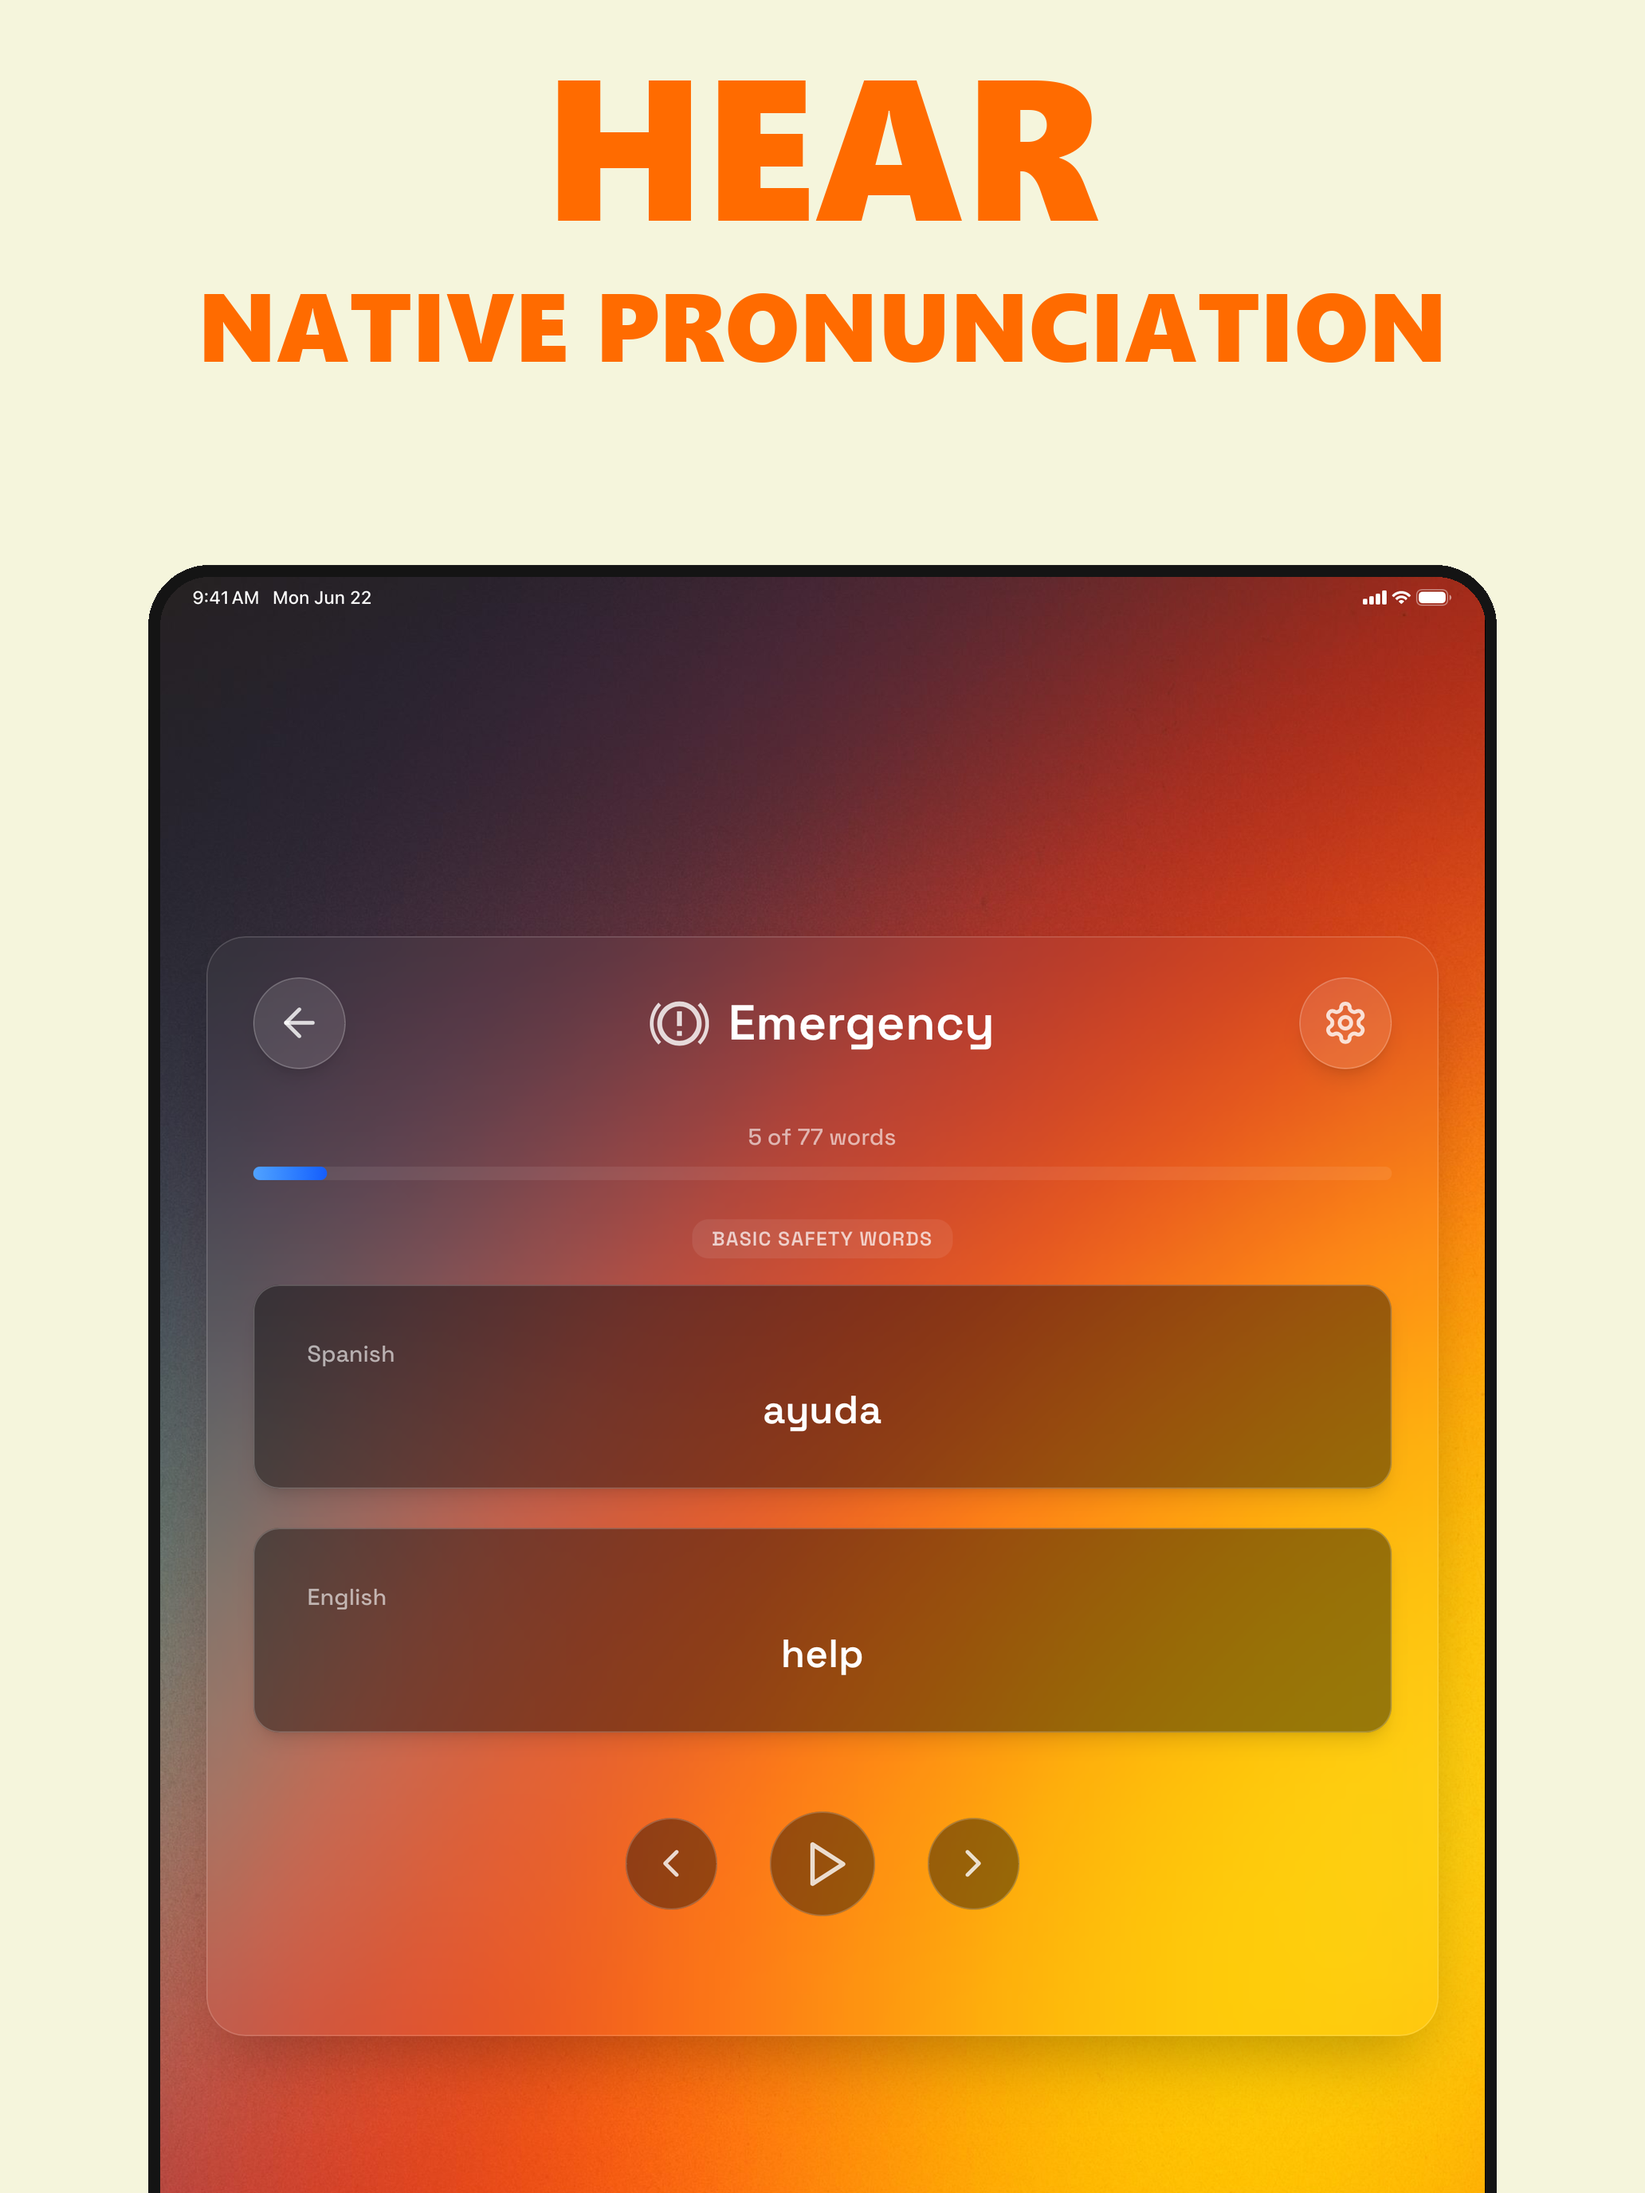
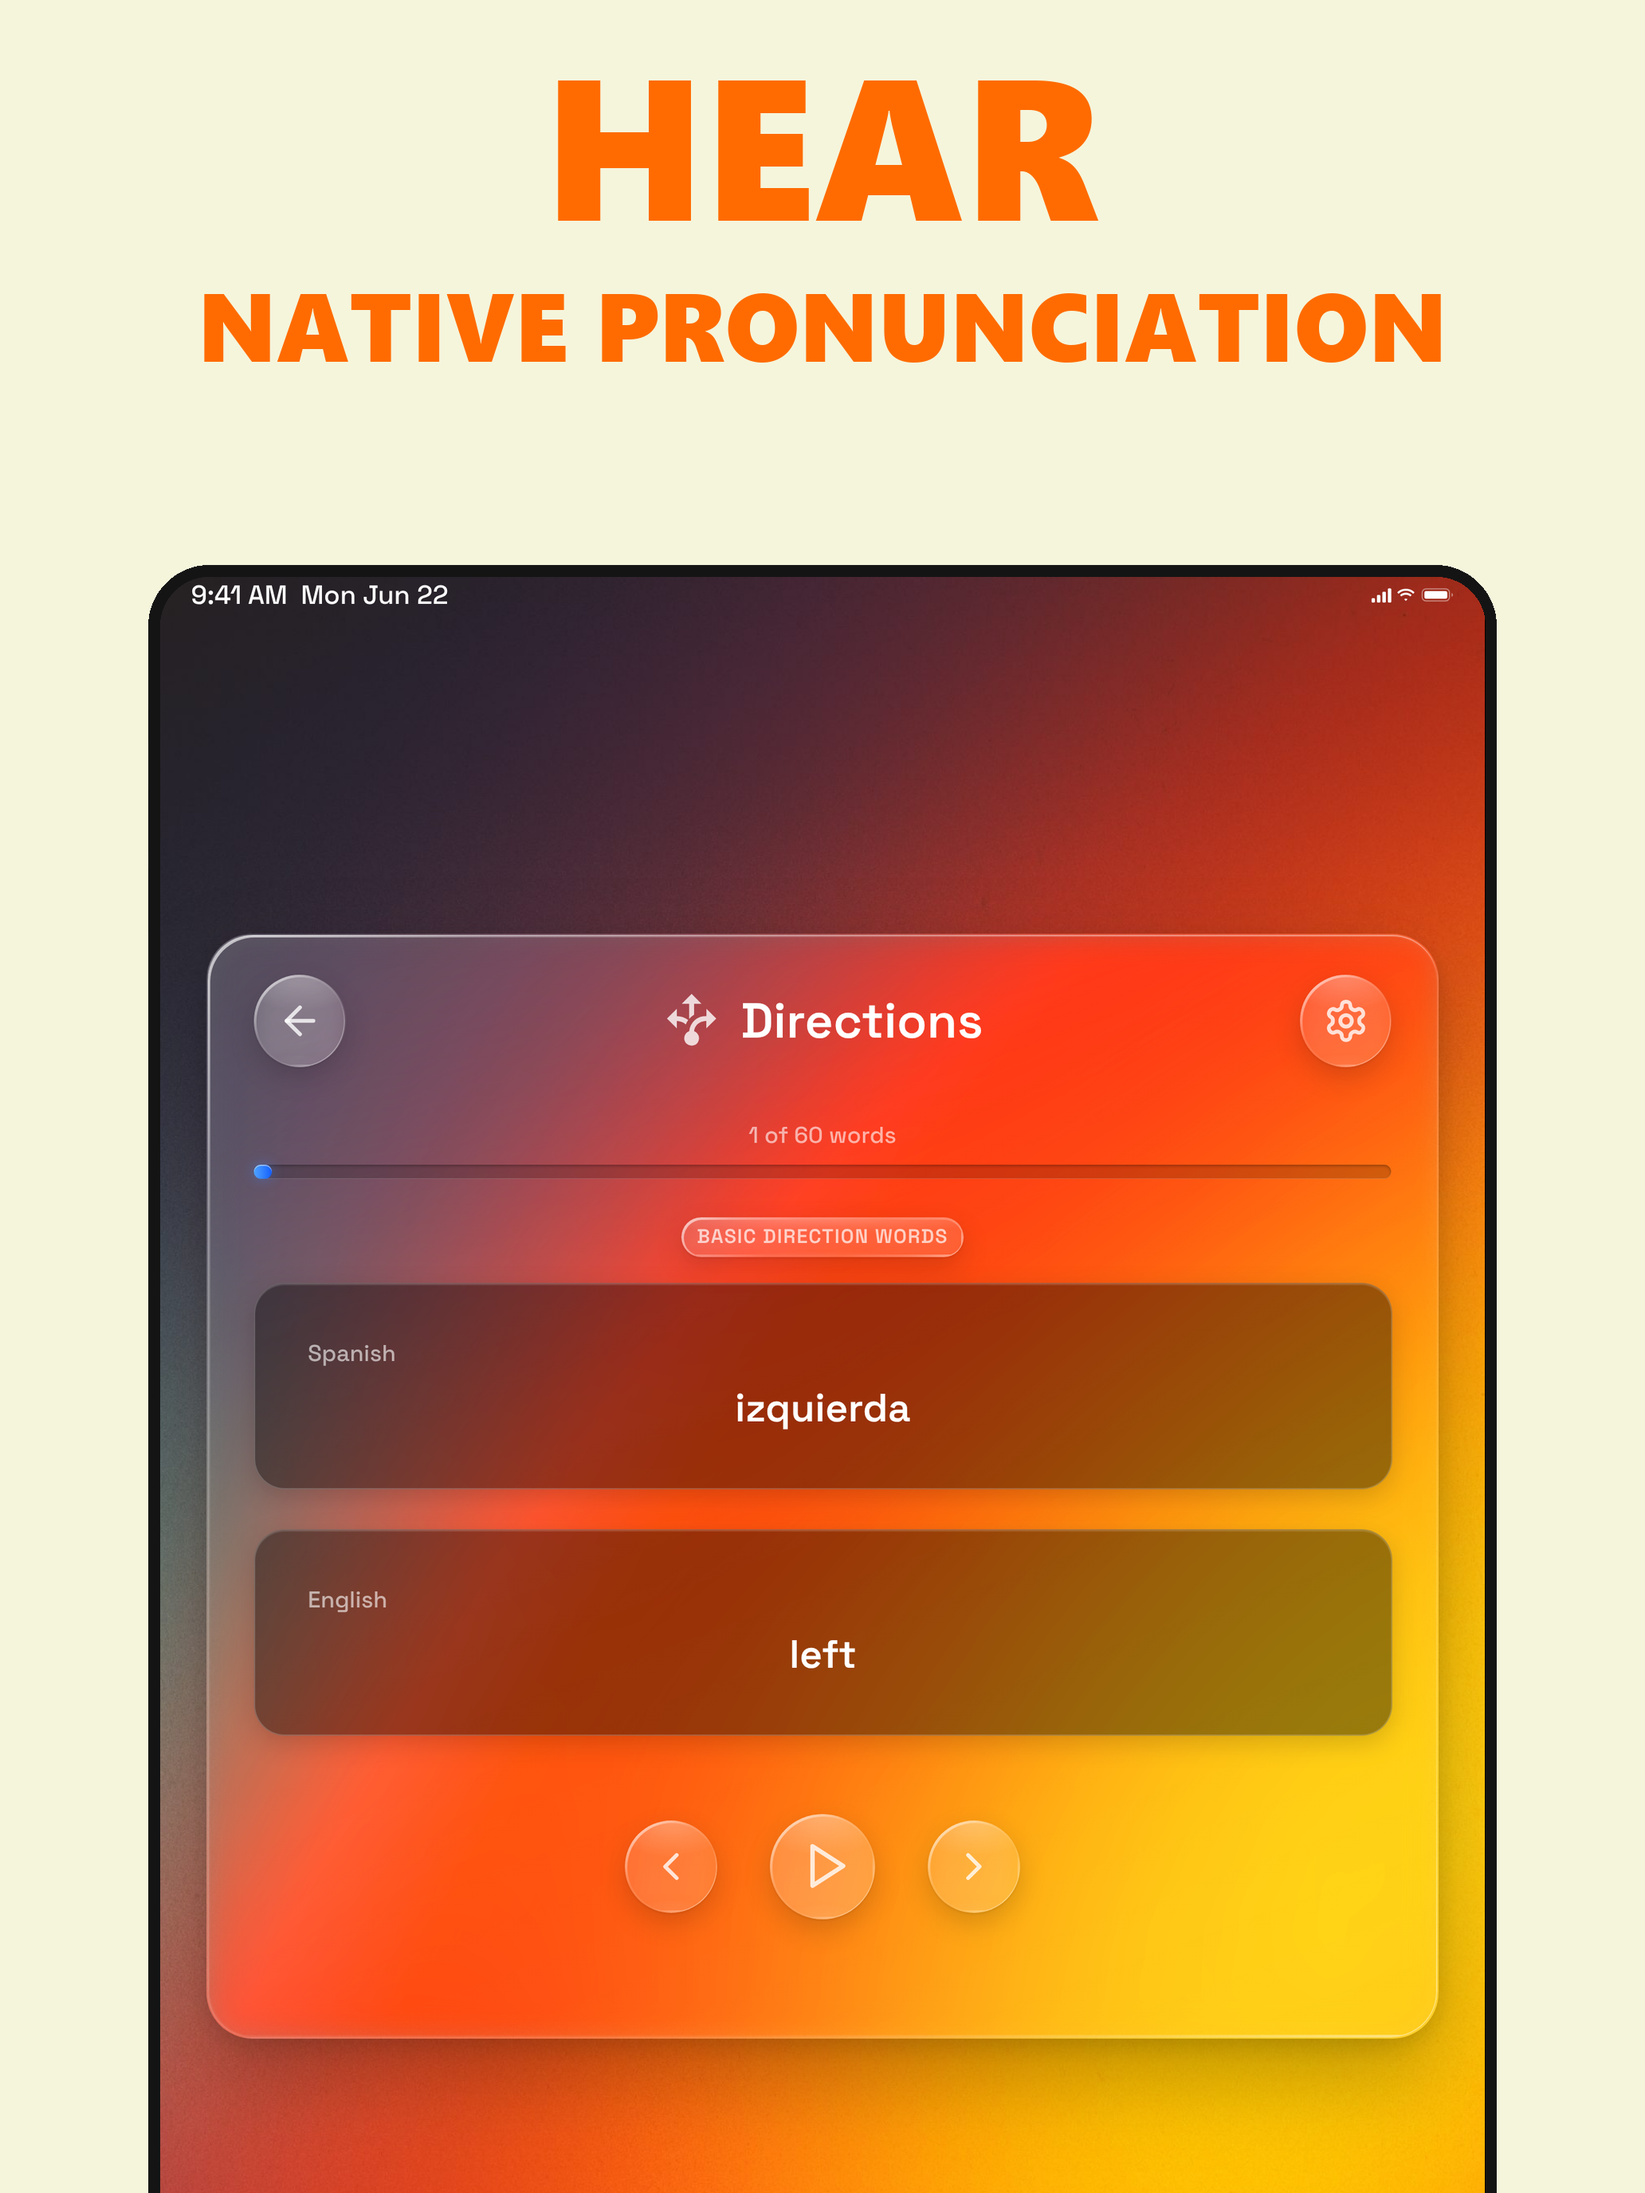
App Store screenshots in the new Liquid Glass UI
Re-captured from the real app (default theme), signed in as a sample
Spanish learner, at 1320 x 2868 (iPhone 6.9") and 2064 x 2752 (iPad 13"):
the raw captures in screenshots-source/, and the captioned images in
screenshots/final/ with the same headlines and device frames as before.

scripts/app-store-screenshots/ holds the tooling: a stand-in for Supabase
serving sample data, the capture script (Playwright), and the compositor.

Claude-Session: https://claude.ai/code/session_01BdBNDivUfcDrwU2NJ7o8ko

diff --git a/scripts/app-store-screenshots/build_sample.py b/scripts/app-store-screenshots/build_sample.py
@@ -1,0 +1,63 @@
+"""Sample database for the App Store screenshots: a learner of Spanish."""
+import json, sys, datetime as dt
+import os
+VOC = json.load(open(os.path.join(os.path.dirname(os.path.abspath(__file__)), '..', '..', 'public', 'data', 'vocabulary.json')))
+U = "00000000-0000-4000-8000-000000000001"
+today = dt.date.today().isoformat()
+now = dt.datetime.now(dt.timezone.utc).replace(tzinfo=None)
+iso = lambda d: d.strftime('%Y-%m-%dT%H:%M:%S.000Z')
+
+vocab, trans = [], []
+for tid, words in VOC.items():
+    for w in words:
+        vocab.append({k: w.get(k) for k in ('id', 'topic_id', 'context', 'part_of_speech', 'difficulty_level', 'example_sentence', 'learning_order')} | {'word_en': w['english']})
+        es = w['translations'].get('es', {}).get('word')
+        if es: trans.append({'vocabulary_id': w['id'], 'language_code': 'es', 'translated_word': es})
+
+left = VOC['4'][0]['id']
+sentences = [
+    ("Gira a la izquierda en el semáforo.", "Turn left at the traffic light."),
+    ("La farmacia está a la izquierda.", "The pharmacy is on the left."),
+    ("Toma la segunda calle a la izquierda.", "Take the second street on the left."),
+]
+ex = []
+for i, (es, en) in enumerate(sentences, 1):
+    ex.append({'id': i, 'vocabulary_id': left, 'language_code': 'es', 'sentence': es, 'translation': en, 'sentence_order': i})
+    ex.append({'id': 100 + i, 'vocabulary_id': left, 'language_code': 'en', 'sentence': en, 'translation': en, 'sentence_order': i})
+
+# Leaderboard: 11 learners ahead, then us, then the rest.
+plays = [{'user_id': U, 'target_language_code': 'es', 'play_count': 2140, 'last_played_at': iso(now)}]
+for i in range(80):
+    pc = 5200 - i * 60 if i < 11 else 2100 - i * 20
+    plays.append({'user_id': f'00000000-0000-4000-8000-{i+100:012d}', 'target_language_code': 'es', 'play_count': max(40, pc), 'last_played_at': iso(now)})
+
+sr = [{'id': i, 'user_id': U, 'vocabulary_id': w['id'], 'target_language_code': 'es', 'state': 2, 'difficulty': 5, 'stability': 3, 'reps': 3, 'lapses': 0, 'due': iso(now - dt.timedelta(hours=2))}
+      for i, w in enumerate(VOC['3'][:23], 1)]
+
+playlists = [
+    {'id': f'p{i}', 'user_id': U, 'name': n, 'source_language_code': 'en', 'target_language_code': 'es', 'created_at': iso(now), 'updated_at': iso(now - dt.timedelta(days=i)), 'user_playlist_words': [{'count': c}]}
+    for i, (n, c) in enumerate([('Trip to Madrid', 28), ('Getting around', 12), ('Everyday Spanish', 41), ('Words I always forget', 9)])
+]
+
+topics_done = [{'user_id': U, 'topic_id': t, 'target_language_code': 'es', 'total_words': n, 'words_learned': l, 'is_completed': l >= n, 'completion_count': 1 if l >= n else 0}
+               for t, n, l in [(1, 36, 34), (2, 47, 41), (3, 46, 29), (4, 60, 22), (7, 77, 31), (18, 64, 18), (6, 80, 47)]]
+
+import urllib.request
+TOPICS = json.load(urllib.request.urlopen('http://localhost:3123/api/topics'))
+S = {
+    'topics': [{'id': t['id'], 'name': t['name']} for t in TOPICS],
+    'vocabulary': vocab,
+    'vocabulary_translations': trans,
+    'example_sentences': ex,
+    'user_language_progress': [{'user_id': U, 'target_language_code': 'es', 'total_words_learned': 1259, 'completion_percentage': '30'}],
+    'user_daily_progress': [{'user_id': U, 'target_language_code': 'es', 'activity_date': today, 'words_learned_count': 44}],
+    'user_login_streaks': [{'user_id': U, 'current_streak': 18, 'longest_streak': 21, 'last_login_date': today}],
+    'user_topic_completion': topics_done,
+    'user_word_progress': plays,
+    'user_sr_cards': sr,
+    'user_playlists': playlists,
+    'user_profiles': [{'id': U, 'timezone': 'UTC', 'learning_settings': {'autoPlay': True, 'pronunciationSpeed': 'Normal', 'pauseBetweenTranslations': 1, 'pauseForNextWord': 1.5, 'repeatTargetLanguage': 2, 'repeatMainLanguage': 1, 'showPlayCount': True}, 'subscription_status': 'premium', 'subscription_plan': 'yearly', 'subscription_period_end': '2027-06-01T00:00:00Z'}],
+    'rpc:get_topic_word_counts': [{'topic_id': int(t), 'word_count': len(w)} for t, w in VOC.items()],
+}
+json.dump(S, open(sys.argv[1], 'w'))
+print({k: len(v) for k, v in S.items()})

diff --git a/scripts/app-store-screenshots/mock_supabase.py b/scripts/app-store-screenshots/mock_supabase.py
@@ -1,0 +1,70 @@
+"""A stand-in for the Supabase API: signs everyone in as one sample user and
+answers table reads from SAMPLE (else an empty list)."""
+import json, sys
+from http.server import BaseHTTPRequestHandler, ThreadingHTTPServer
+from urllib.parse import urlparse, parse_qs
+
+USER = {
+    "id": "00000000-0000-4000-8000-000000000001", "aud": "authenticated", "role": "authenticated",
+    "email": "alex@example.com", "app_metadata": {"provider": "google"},
+    "user_metadata": {"full_name": "Alex Martin", "name": "Alex Martin"},
+    "created_at": "2026-01-01T00:00:00Z",
+}
+SAMPLE = json.load(open(sys.argv[1])) if len(sys.argv) > 1 else {}
+LOG = open(sys.argv[2], "a") if len(sys.argv) > 2 else None
+
+class H(BaseHTTPRequestHandler):
+    def log_message(self, *a): pass
+    def cors(self):
+        self.send_header("Access-Control-Allow-Origin", self.headers.get("Origin") or "*")
+        self.send_header("Access-Control-Allow-Credentials", "true")
+        self.send_header("Access-Control-Allow-Headers", "*")
+        self.send_header("Access-Control-Allow-Methods", "GET,POST,PATCH,PUT,DELETE,OPTIONS")
+        self.send_header("Access-Control-Expose-Headers", "*")
+    def do_OPTIONS(self):
+        self.send_response(204); self.cors(); self.end_headers()
+    def reply(self, body, extra=None):
+        data = json.dumps(body).encode()
+        self.send_response(200); self.cors()
+        self.send_header("Content-Type", "application/json")
+        for k, v in (extra or {}).items(): self.send_header(k, v)
+        self.send_header("Content-Length", str(len(data))); self.end_headers(); self.wfile.write(data)
+    def handle_any(self):
+        global SAMPLE
+        if len(sys.argv) > 1: SAMPLE = json.load(open(sys.argv[1]))
+        u = urlparse(self.path)
+        if LOG: LOG.write(f"{self.command} {self.path}\n"); LOG.flush()
+        if u.path.startswith("/auth/v1/user"): return self.reply(USER)
+        if u.path.startswith("/auth/v1/"): return self.reply({})
+        if u.path.startswith("/rest/v1/"):
+            table = u.path.split("/")[3]
+            if table == "rpc": return self.reply(SAMPLE.get("rpc:" + u.path.split("/")[4], []))
+            rows = self.filtered(table, parse_qs(u.query))
+            single = "vnd.pgrst.object" in (self.headers.get("Accept") or "")
+            if single:
+                return self.reply(rows[0] if rows else None) if rows else self.reply_err()
+            return self.reply(rows, {"Content-Range": f"0-{max(0,len(rows)-1)}/{len(rows)}"})
+        if u.path.startswith("/rest/v1/rpc"): return self.reply(None)
+        self.reply({})
+    def do_HEAD(self):
+        global SAMPLE
+        if len(sys.argv) > 1: SAMPLE = json.load(open(sys.argv[1]))
+        u = urlparse(self.path)
+        table = u.path.split("/")[3] if u.path.startswith("/rest/v1/") else ""
+        rows = self.filtered(table, parse_qs(u.query))
+        self.send_response(200); self.cors()
+        self.send_header("Content-Range", f"*/{len(rows)}"); self.end_headers()
+    def filtered(self, table, q):
+        rows = SAMPLE.get(table, [])
+        for k, v in q.items():
+            if k in ("select", "order", "limit", "offset"): continue
+            val = v[0]
+            if val.startswith("eq."): rows = [r for r in rows if str(r.get(k)).lower() == val[3:].lower()]
+            elif val.startswith("in.("): allowed = set(val[4:-1].split(",")); rows = [r for r in rows if str(r.get(k)) in allowed]
+        return rows
+    def reply_err(self):
+        data = json.dumps({"code": "PGRST116", "message": "no rows"}).encode()
+        self.send_response(406); self.cors(); self.send_header("Content-Type", "application/json"); self.end_headers(); self.wfile.write(data)
+    do_GET = do_POST = do_PATCH = do_PUT = do_DELETE = handle_any
+
+ThreadingHTTPServer(("127.0.0.1", 54321), H).serve_forever()

diff --git a/scripts/app-store-screenshots/compose.py b/scripts/app-store-screenshots/compose.py
@@ -1,0 +1,31 @@
+"""Puts fresh captures (out/<device>/*.png) into the captioned App Store
+images, reusing each existing image's headline and device frame.
+
+  python3 scripts/app-store-screenshots/compose.py
+"""
+import os
+from PIL import Image, ImageDraw
+
+HERE = os.path.dirname(os.path.abspath(__file__))
+ROOT = os.path.join(HERE, '..', '..')
+MAP = {
+    '01-learn-in-order': 'topics-grid', '02-hear-native-pronunciation': 'audio-pronunciation',
+    '03-listen-at-your-own-speed': 'settings-speed', '04-watch-it-add-up': 'account-stats',
+    '05-see-it-in-a-sentence': 'example-sentence', '06-save-what-matters': 'my-words-playlists',
+    '07-lock-it-in': 'quick-recall',
+}
+# final folder, screen left, screen top, screen width, corner radius (px)
+GEOM = {'iphone': ('screenshots/final', 134, 754, 1052, 62), 'ipad': ('screenshots/final/ipad', 201, 724, 1662, 62)}
+
+for dev, (fdir, x0, top, W, r) in GEOM.items():
+    for fin, scr in MAP.items():
+        base = Image.open(os.path.join(ROOT, fdir, fin + '.png')).convert('RGB')
+        new = Image.open(os.path.join(HERE, 'out', dev, scr + '.png')).convert('RGB')
+        s = new.resize((W, round(new.height * W / new.width)), Image.LANCZOS)
+        h = base.height - top
+        s = s.crop((0, 0, W, h))
+        mask = Image.new('L', (W * 4, h * 4), 0)
+        ImageDraw.Draw(mask).rounded_rectangle((0, 0, W * 4 - 1, h * 4 + r * 8), radius=r * 4, fill=255)
+        base.paste(s, (x0, top), mask.resize((W, h), Image.LANCZOS))
+        base.save(os.path.join(ROOT, fdir, fin + '.png'))
+        print('wrote', fdir, fin)

diff --git a/scripts/app-store-screenshots/README.md b/scripts/app-store-screenshots/README.md
@@ -1,0 +1,29 @@
+# App Store screenshots
+
+Captures the real app (Liquid Glass, default theme) signed in as a sample
+Spanish learner, at the App Store sizes:
+
+- iPhone 6.9": 1320 × 2868 (440 × 956 pt @3x)
+- iPad 13": 2064 × 2752 (1032 × 1376 pt @2x)
+
+No real account or database is involved. `mock_supabase.py` stands in for
+Supabase: it signs the browser in as one sample user and answers table reads
+from `sample.json`, which `build_sample.py` builds (words from
+`public/data/vocabulary.json`; progress, streak, rank, playlists and example
+sentences are sample values). The app's own API routes run against it.
+
+```bash
+cd scripts/app-store-screenshots
+npm i --no-save playwright-core@1.55.0     # Chromium: set the path in lib.mjs
+python3 mock_supabase.py sample.json &      # port 54321
+NEXT_PUBLIC_SUPABASE_URL=http://127.0.0.1:54321 NEXT_PUBLIC_SUPABASE_ANON_KEY=dummy \
+  SUPABASE_SERVICE_ROLE_KEY=dummy npx next dev -p 3123 &   # from the repo root
+python3 build_sample.py sample.json         # needs the dev server (reads /api/topics)
+node capture.mjs iphone                     # → out/iphone/*.png
+node capture.mjs ipad                       # → out/ipad/*.png (drop account-progress)
+python3 compose.py                          # → screenshots/final (+ /ipad)
+```
+
+Copy `out/*` into `screenshots-source/` to keep the raw captures. The status
+bar (9:41, full battery) is drawn over each capture; the dev-only Next.js badge
+is hidden.
